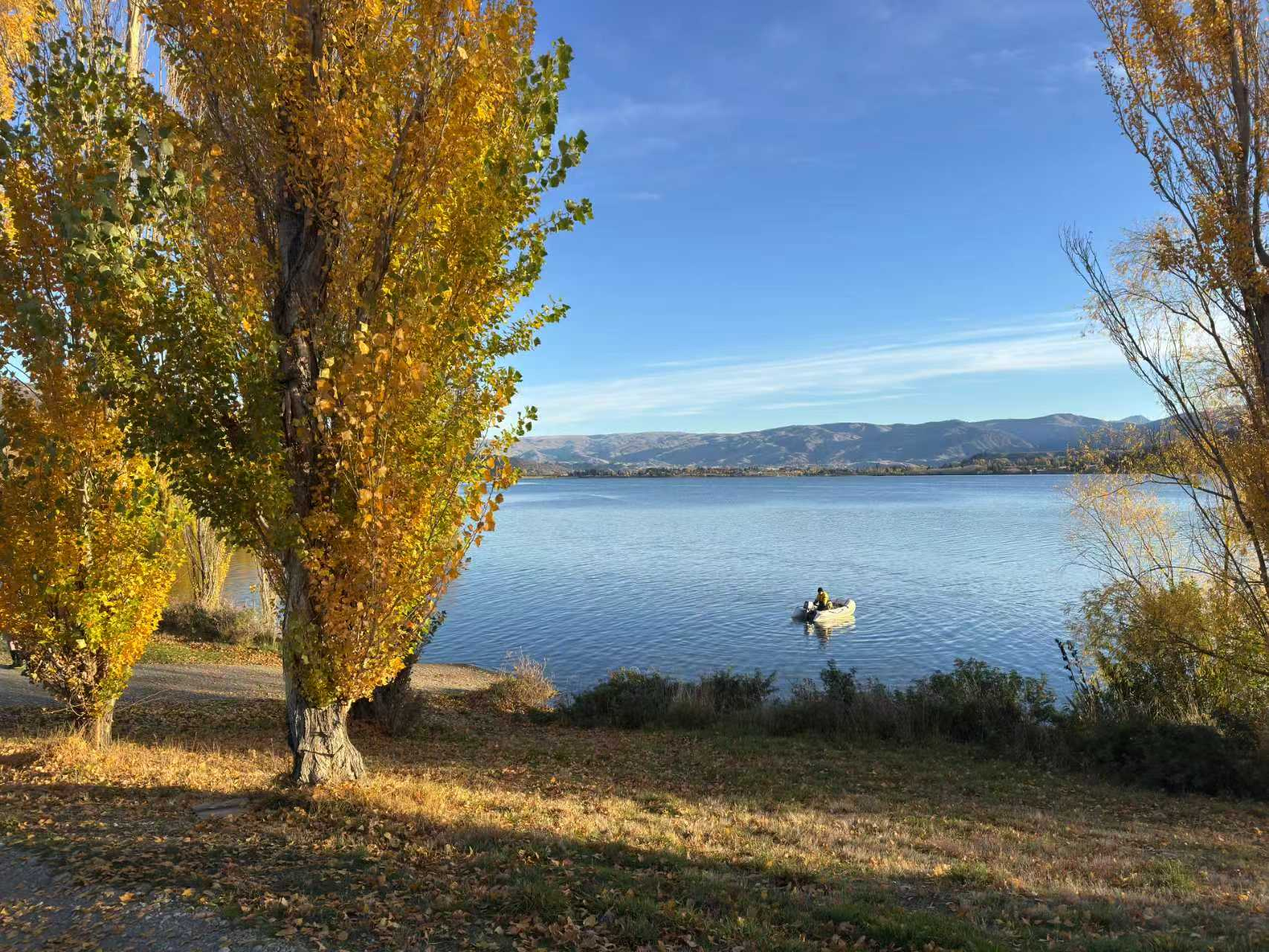
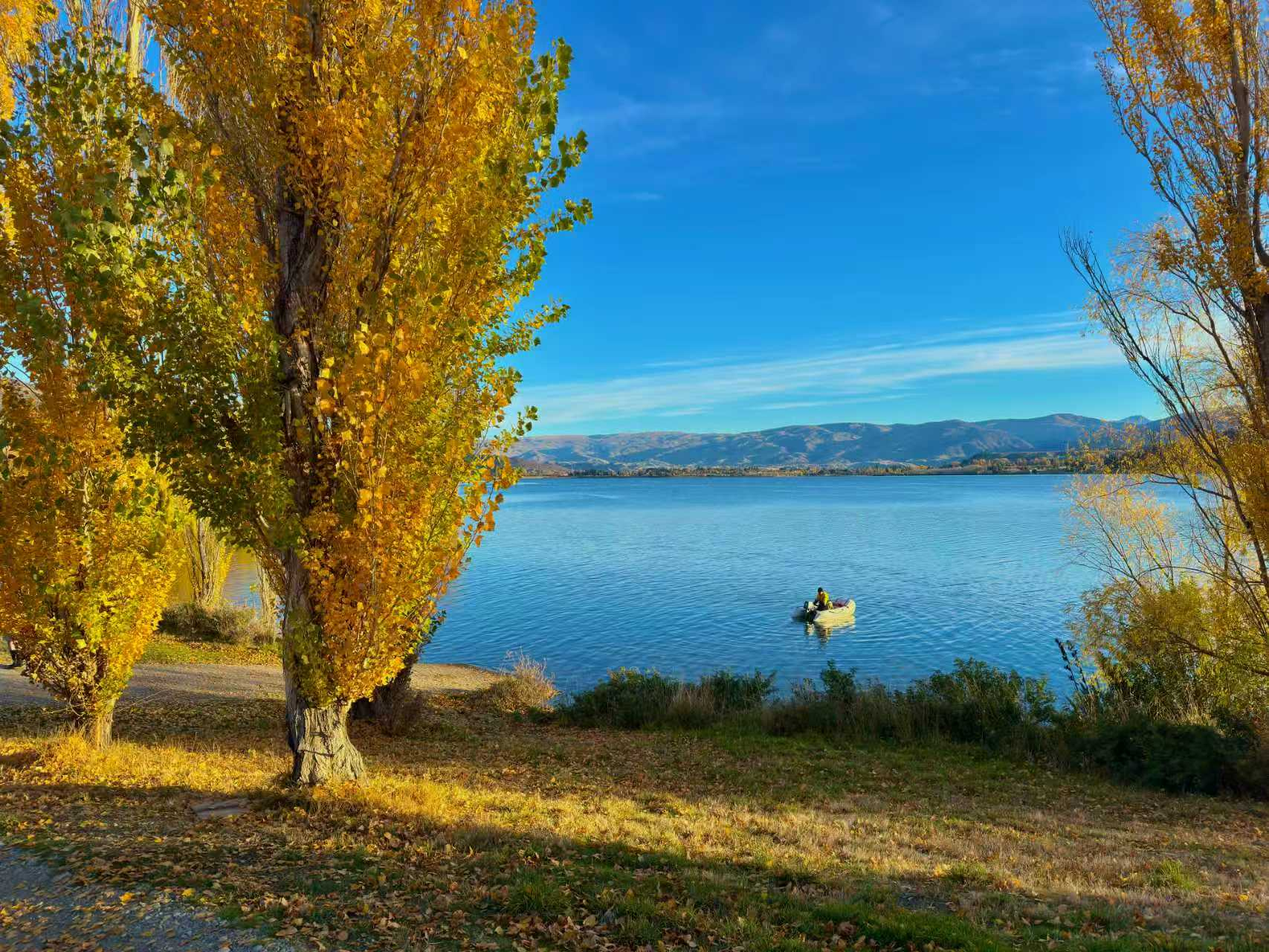
u

diff --git a/gallery-embed.html b/gallery-embed.html
@@ -71,7 +71,7 @@
 
     <div class="row probootstrap-gutter16">
         <div class="col-md-8 probootstrap-animate" data-animate-effect="fadeIn">
-          <a href="index.html" class="img-bg" style="background-image: url(gallery/2025-05-04\ South\ Island/325.pic);">
+          <a href="index.html" class="img-bg" style="background-image: url(gallery/2025-05-04\ South\ Island/5.jpg);">
             <div class="probootstrap-photo-details">
               <h2>The autumn of South Island, NZ</h2>
               <p>4-6 May 2025</p>
